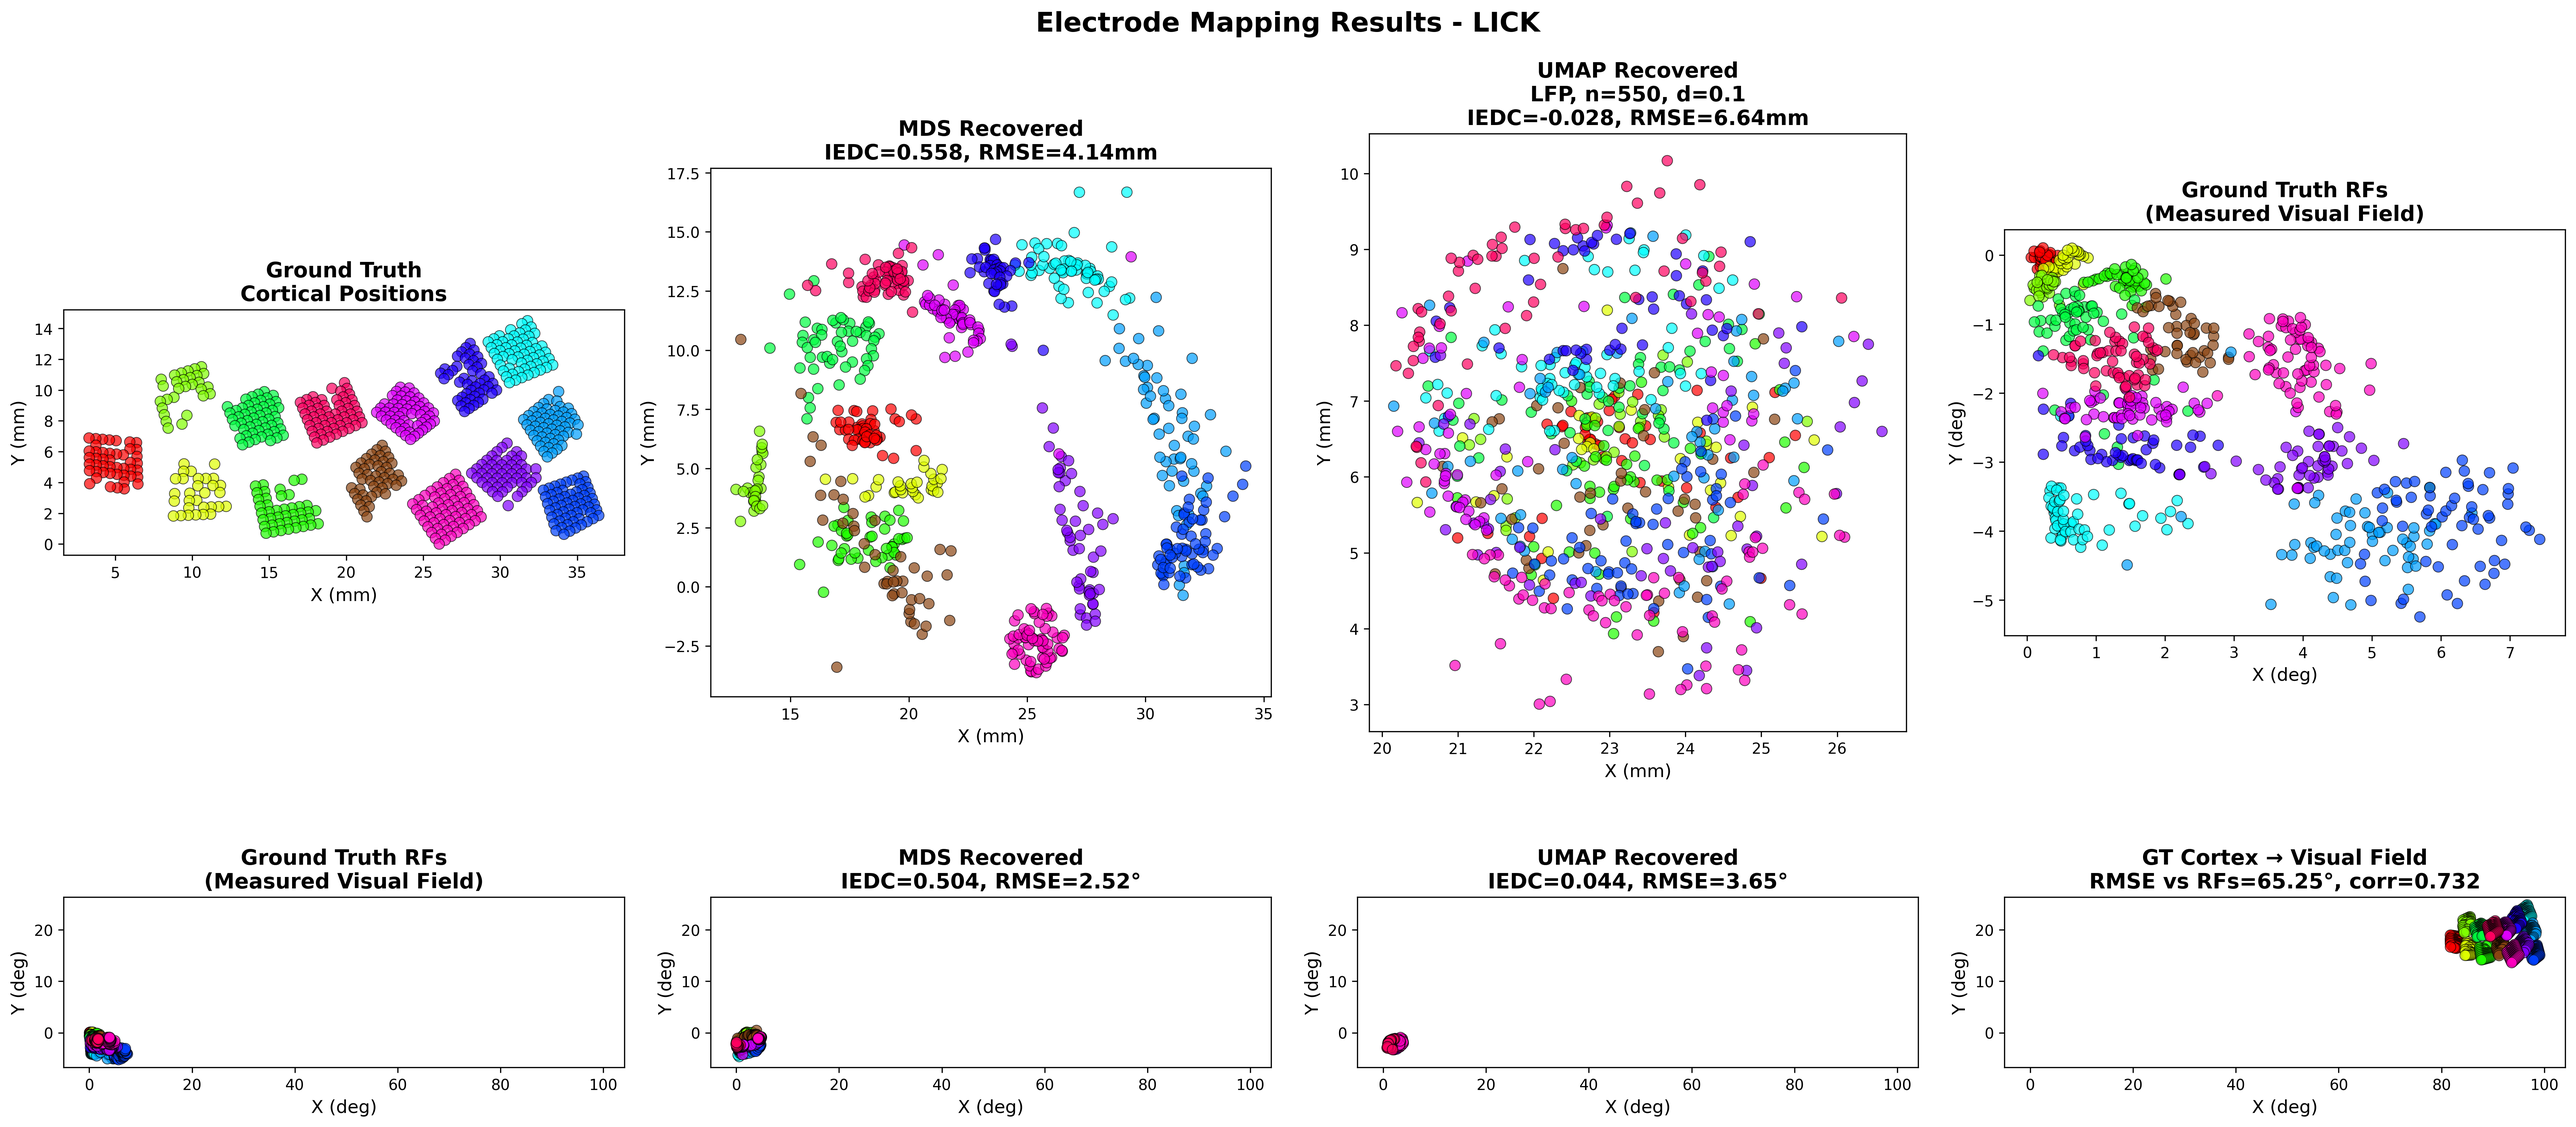
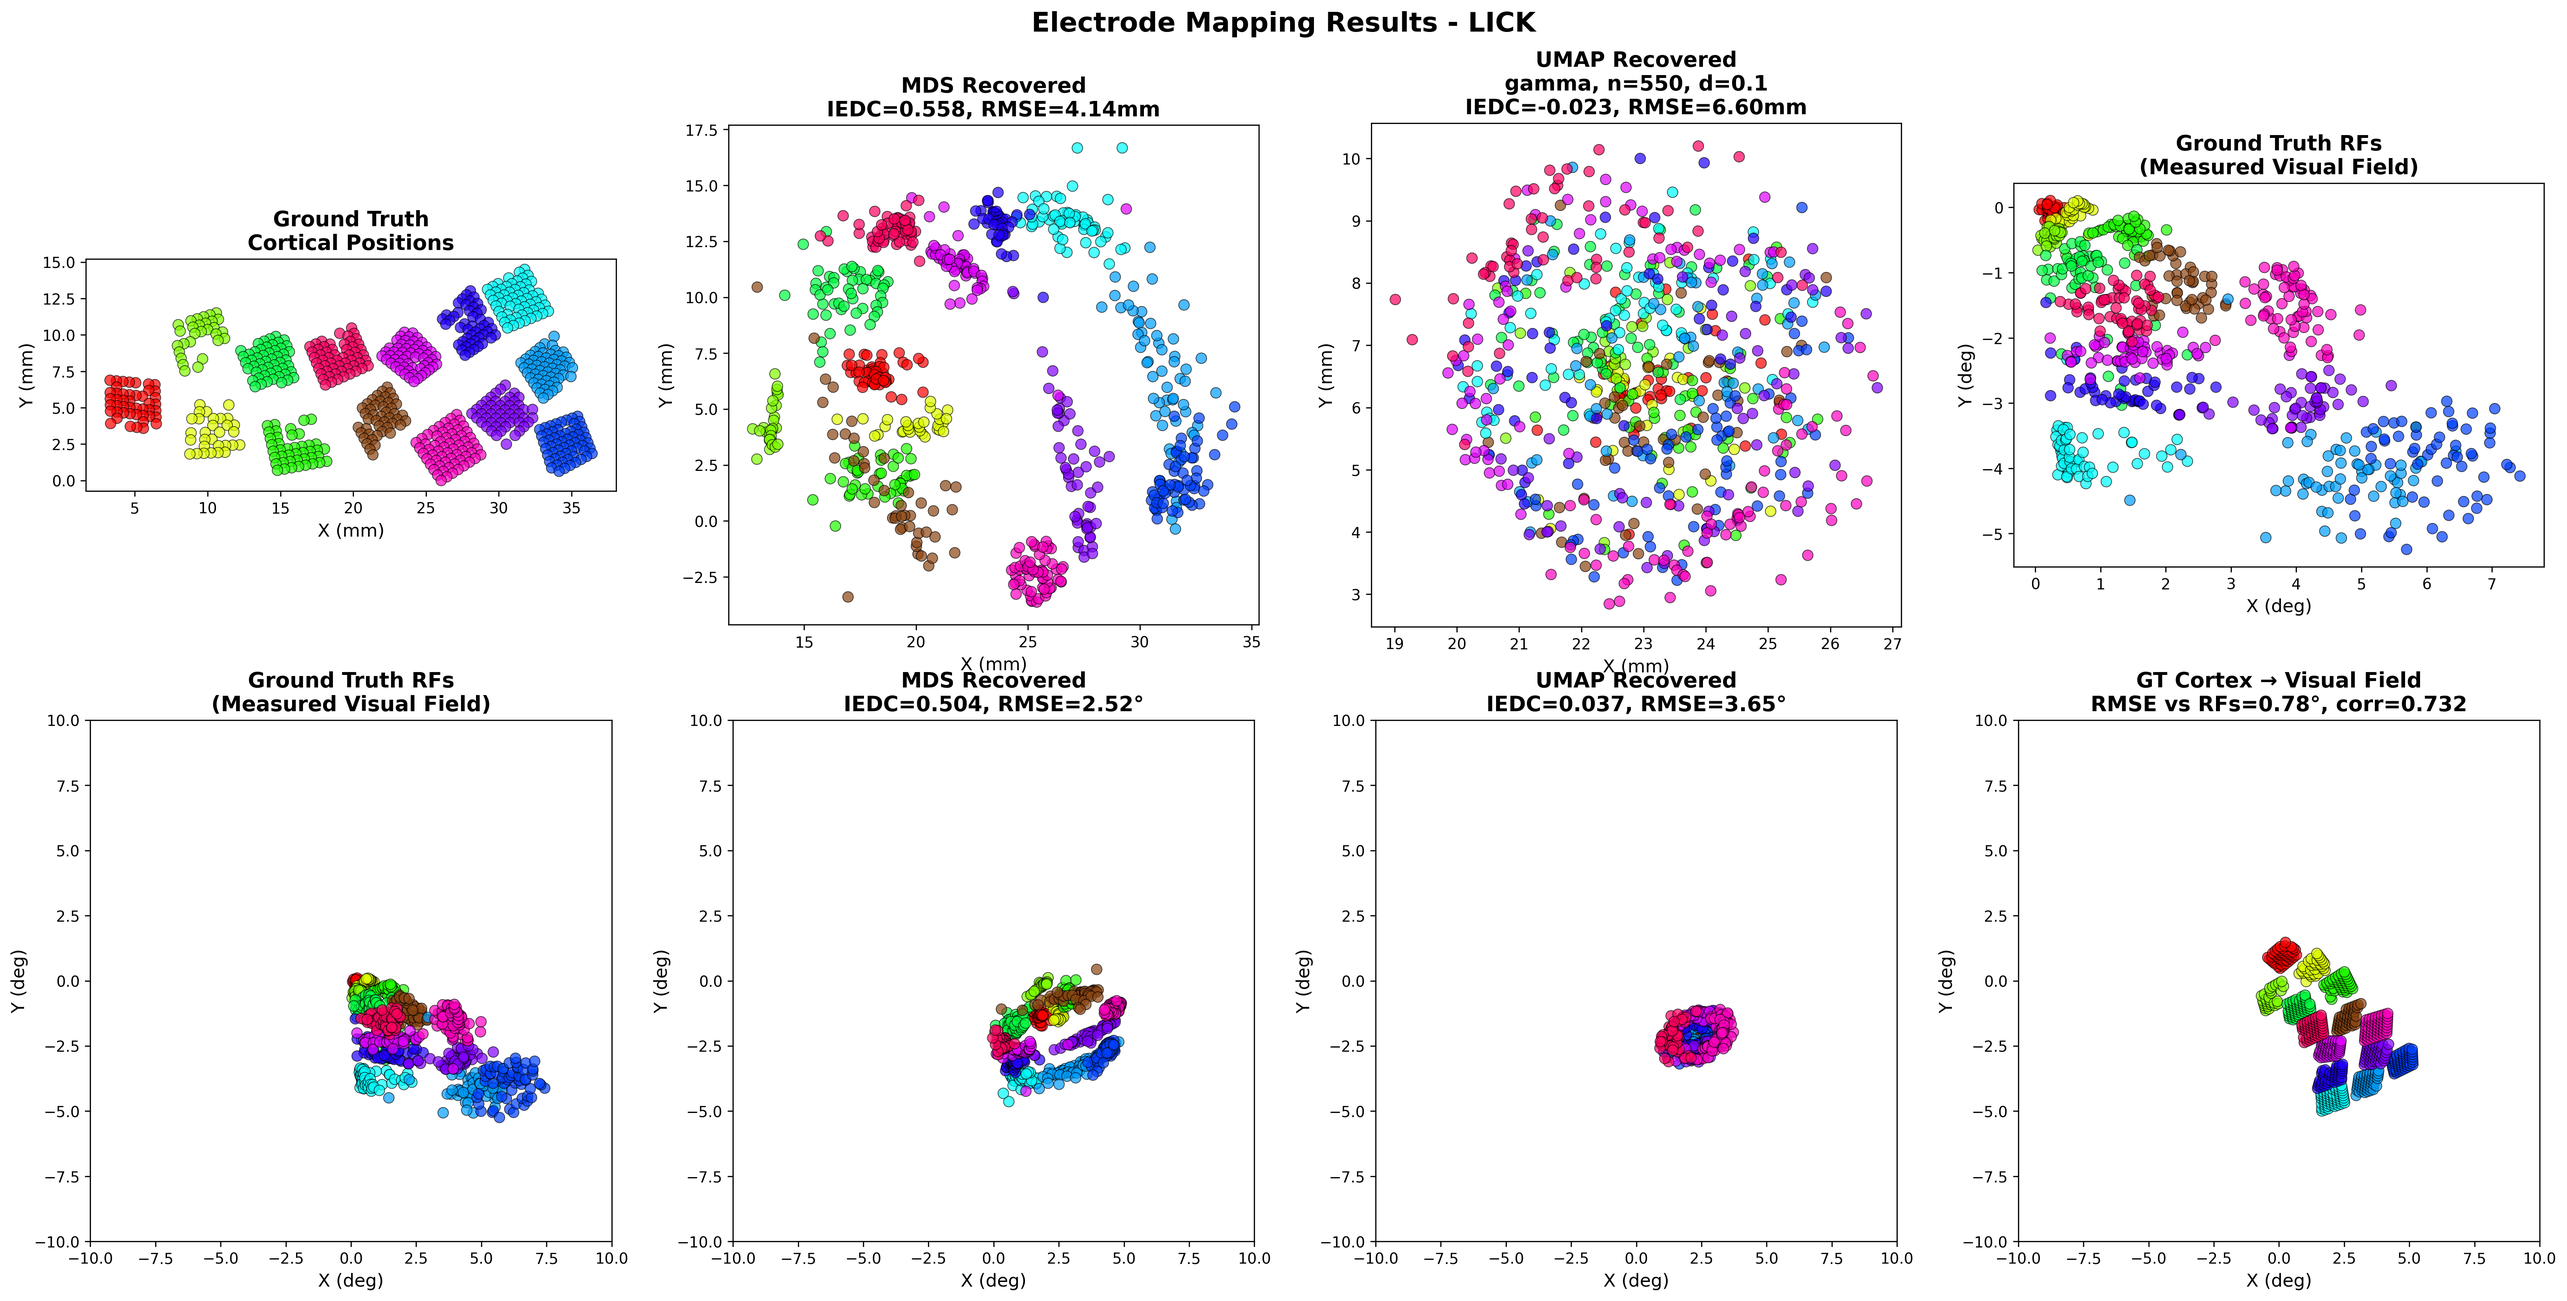
VF plots: fix axes to [-10,10] deg and align GT cortexVF to RFs for visualization

diff --git a/neumap_demo_v2.py b/neumap_demo_v2.py
@@ -423,12 +423,17 @@ def plot_results(
     figures_dir.mkdir(exist_ok=True)
     
     # Project cortical positions to visual field (deg)
-    utah_visual = project_to_visual_field(utah_mm, monkey_alias)
+    utah_visual_raw = project_to_visual_field(utah_mm, monkey_alias)
     mds_visual_raw = project_to_visual_field(mds_aligned, monkey_alias)
     umap_visual_raw = project_to_visual_field(umap_aligned, monkey_alias)
 
     # For visualization only: align projected maps to measured RFs in the visual field
     # This removes arbitrary rotation/scale introduced by projection and aids comparison
+    try:
+        _, _, _, Rv_utah, sv_utah, n1_utah, n2_utah, m1_utah, m2_utah = scipy_Antonio_procrustes(rfs, utah_visual_raw)
+        utah_visual = rescale_procrustes_map(utah_visual_raw, Rv_utah, sv_utah, n1_utah, n2_utah, m1_utah, m2_utah)
+    except Exception:
+        utah_visual = utah_visual_raw
     try:
         _, _, _, Rv_mds, sv_mds, n1_mds, n2_mds, m1_mds, m2_mds = scipy_Antonio_procrustes(rfs, mds_visual_raw)
         mds_visual = rescale_procrustes_map(mds_visual_raw, Rv_mds, sv_mds, n1_mds, n2_mds, m1_mds, m2_mds)
@@ -489,15 +494,9 @@ def plot_results(
     ax.set_facecolor('white')
     
     # Row 2: Visual field space
-    # Compute shared visual field limits INCLUDING the ground truth RFs
-    all_visual_x = np.concatenate([rfs[:, 0], utah_visual[:, 0], mds_visual[:, 0], umap_visual[:, 0]])
-    all_visual_y = np.concatenate([rfs[:, 1], utah_visual[:, 1], mds_visual[:, 1], umap_visual[:, 1]])
-    span_x = float(all_visual_x.max() - all_visual_x.min())
-    span_y = float(all_visual_y.max() - all_visual_y.min())
-    margin_x = max(0.05 * span_x, 0.25)
-    margin_y = max(0.05 * span_y, 0.25)
-    visual_xlim = (all_visual_x.min() - margin_x, all_visual_x.max() + margin_x)
-    visual_ylim = (all_visual_y.min() - margin_y, all_visual_y.max() + margin_y)
+    # Fixed axis limits in degrees (as requested)
+    visual_xlim = (-10.0, 10.0)
+    visual_ylim = (-10.0, 10.0)
     
     # Plot 5: Ground truth RFs (measured visual field positions)
     ax = axes[1, 0]
@@ -537,7 +536,7 @@ def plot_results(
     ax.grid(False)
     ax.set_facecolor('white')
     
-    # Plot 8: Ground truth cortical positions projected to visual field
+    # Plot 8: Ground truth cortical positions projected to visual field (aligned to RFs)
     # This should match the RFs if the wedge dipole model is accurate
     ax = axes[1, 3]
     ax.scatter(utah_visual[:, 0], utah_visual[:, 1], c=colors, alpha=0.7, edgecolors='black', s=50, linewidth=0.5)
